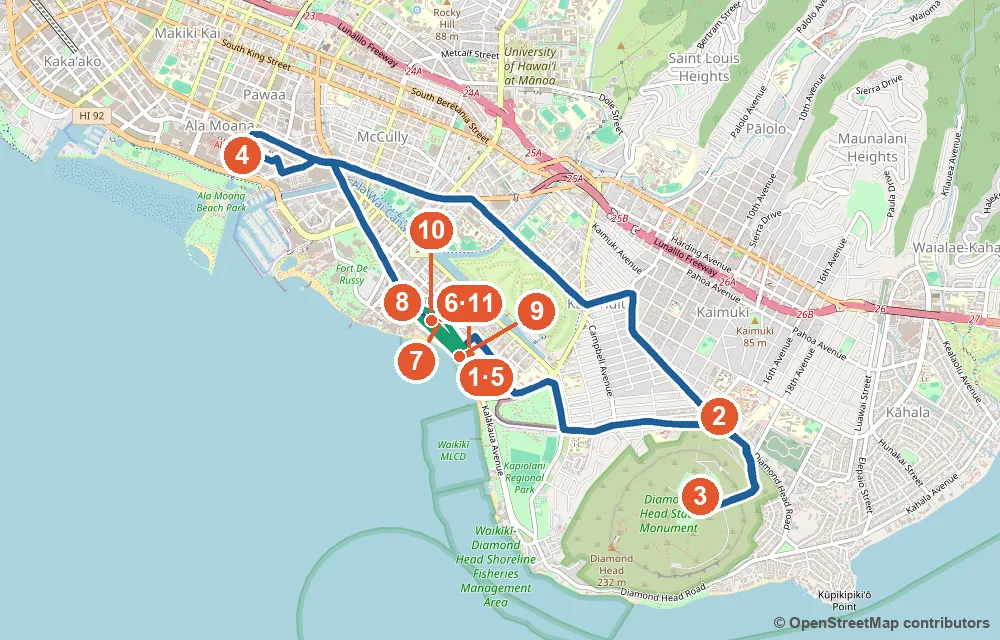
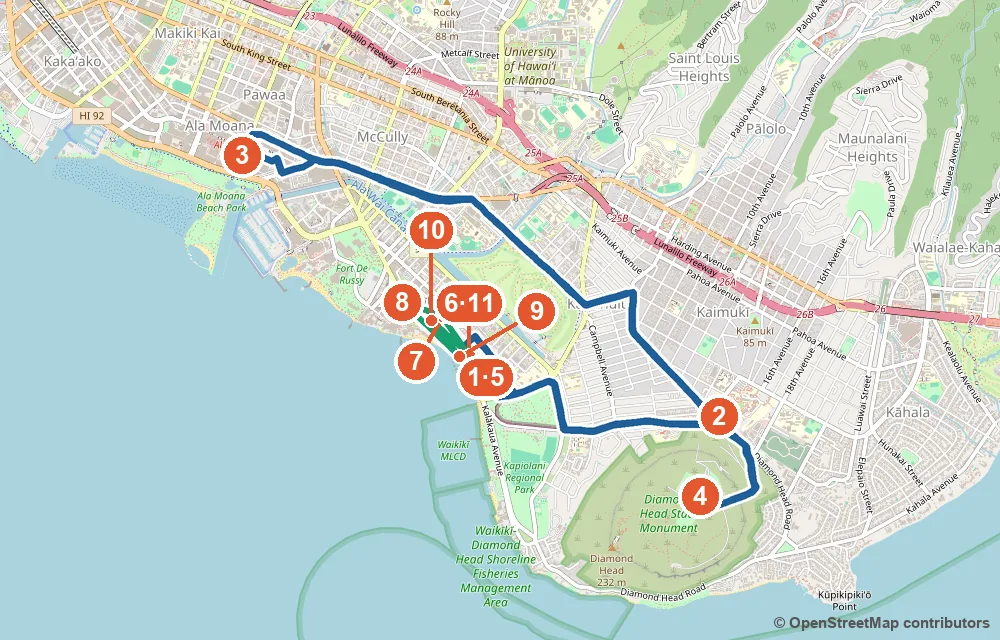
feat: 11/7 Diamond Head moved to 14:00 (brother busy AM), KCC+Ala Moana in the morning

diff --git a/index.html b/index.html
@@ -12,7 +12,7 @@
 // GitHub Pages 는 HTML 을 10분 캐시한다(헤더는 못 바꿈) → 열 때마다 version.json 을 캐시 없이 확인해
 // 새 버전이면 주소에 ?v=버전 을 붙여 한 번만 새로 불러온다 (같은 버전으로 이미 시도했으면 멈춤)
 (function () {
-  var BUILD = 'e12032f7f1';
+  var BUILD = 'fb1e3ab4a1';
   try {
     fetch('version.json?t=' + Date.now(), { cache: 'no-store' })
       .then(function (r) { return r.ok ? r.json() : null; })
@@ -336,7 +336,7 @@ footer { max-width: 1100px; margin: 0 auto; padding: 0 16px 48px; color: var(--m
 
 <div class="wx-summary">🌤 <b>날씨</b> 낮 27~30°C · 밤 21~24°C · 비 확률 대부분 15~30% (11/10만 65%, 짧은 소나기) · 동북동 무역풍 낮 평균 초속 5~8m · 돌풍 15~19m (모자 턱끈) · 일몰 17:52 — <span>미국 기상청 + Open-Meteo 수치모델 (11/3) · 날짜별 비 확률·기온·바람은 각 일정 맨 위에</span></div>
 <section class="sec alert"><div class="sec-head"><span class="sec-ic">🚨</span><h2 id="지금-예약확인할-것">지금 예약·확인할 것</h2></div>
-<div class="todo-grid"><div class="todo"><span class="when">예약 ❌ <strong>예약 취소 (11/3 · 작은형 일정)</strong></span><h4><strong>다이아몬드헤드</strong> 입장+주차</h4><div class="visit">📅 <span>가는 날</span> 11/7 (토) 10:00 슬롯이었음 · <strong>다시 갈지 정하는 중</strong></div><div class="where"><a href="https://gostateparks.hawaii.gov/diamondhead" target="_blank" rel="noopener">gostateparks.hawaii.gov/diamondhead</a></div><div class="memo">다시 잡으려면 $5×5 + 주차 $10 = $35 · 주차 슬롯 시작 30분 안에 도착</div></div><div class="todo"><span class="when">예약 <strong>11/4 15:00 HST</strong> (= 한국 11/5 10:00)</span><h4><strong>USS Arizona</strong> (진주만)</h4><div class="visit">📅 <span>가는 날</span> <strong>11/5 (목) 10:45–11:30 시작 슬롯</strong> · 5장 (더 늦으면 점심·아울렛도 늦춤)</div><div class="where"><a href="https://www.recreation.gov/ticket/233338/ticket/16" target="_blank" rel="noopener">recreation.gov — 「Arizona Memorial Tour」</a></div><div class="memo">8주 전 물량은 소진 → <strong>전날 15:00 추가 물량</strong> · 1장 $1 · <strong>14:50 로그인 담당 1명 지정</strong> · 오늘 미리 <strong>회원가입</strong> (무료, 이메일 인증) · 11/5 전날 물량은 10:45·11:15 슬롯에 각 75장 (11/3 확인) · 방문자센터 09:40 도착 기준</div></div><div class="todo"><span class="when">예약 지금</span><h4>저녁 예약 (5명)</h4><div class="visit">📅 <span>가는 날</span> ✅ <strong>11/4 (수) 17:30</strong> DECK. 예약 완료 (일몰 17:53) · <strong>11/6 (금) 17:00</strong> Buzz's · <strong>11/7 (토) 19:15</strong> 🍺 Maui Brewing 와이키키 (훌라 쇼 뒤)</div><div class="where">전화·OpenTable</div><div class="memo">Buzz's ☎ 808-261-4661 · 🍺 11/5 Yard House · 11/9 Waikiki Brewing은 <strong>예약 없이</strong> 바로 가요 (11/3 맥주집으로 변경)</div></div><div class="todo"><span class="when">예약 지금</span><h4>아침 예약 (5명)</h4><div class="visit">📅 <span>가는 날</span> <strong>11/8 (일) 08:00</strong> Duke's 조식 뷔페 · <strong>11/10 (화) 07:15</strong> Heavenly</div><div class="where">OpenTable · 전화</div><div class="memo">Duke's 조식 성인 $29 (07:00–11:00) · Heavenly는 아침 5인 예약 되는지 전화로 확인 (☎ 808-923-1100)</div></div><div class="todo"><span class="when">예약 지금</span><h4>PCC 패키지 (5명)</h4><div class="visit">📅 <span>가는 날</span> <strong>11/10 (화)</strong> 12:25 도착 · 루아우 16:40경 · 공연 19:15</div><div class="where"><a href="https://polynesia.com" target="_blank" rel="noopener">polynesia.com</a></div><div class="memo">일·수 휴무 · 운전 부담 크면 PCC 왕복 버스 $28/인</div></div></div>
+<div class="todo-grid"><div class="todo"><span class="when">예약 🔁 <strong>다시 예약 (오늘)</strong></span><h4><strong>다이아몬드헤드</strong> 입장+주차</h4><div class="visit">📅 <span>가는 날</span> <strong>11/7 (토) 14:00–16:00 주차 슬롯</strong> · 5명 입장 (10:00 예약은 취소 — 작은형 오전 개인 일정)</div><div class="where"><a href="https://gostateparks.hawaii.gov/diamondhead" target="_blank" rel="noopener">gostateparks.hawaii.gov/diamondhead</a></div><div class="memo"><strong>14:30까지 주차장 도착</strong> · $5×5 + 주차 $10 = $35 · 입장 QR 1회용 → 티켓을 내려받아 폰에 저장</div></div><div class="todo"><span class="when">예약 <strong>11/4 15:00 HST</strong> (= 한국 11/5 10:00)</span><h4><strong>USS Arizona</strong> (진주만)</h4><div class="visit">📅 <span>가는 날</span> <strong>11/5 (목) 10:45–11:30 시작 슬롯</strong> · 5장 (더 늦으면 점심·아울렛도 늦춤)</div><div class="where"><a href="https://www.recreation.gov/ticket/233338/ticket/16" target="_blank" rel="noopener">recreation.gov — 「Arizona Memorial Tour」</a></div><div class="memo">8주 전 물량은 소진 → <strong>전날 15:00 추가 물량</strong> · 1장 $1 · <strong>14:50 로그인 담당 1명 지정</strong> · 오늘 미리 <strong>회원가입</strong> (무료, 이메일 인증) · 11/5 전날 물량은 10:45·11:15 슬롯에 각 75장 (11/3 확인) · 방문자센터 09:40 도착 기준</div></div><div class="todo"><span class="when">예약 지금</span><h4>저녁 예약 (5명)</h4><div class="visit">📅 <span>가는 날</span> ✅ <strong>11/4 (수) 17:30</strong> DECK. 예약 완료 (일몰 17:53) · <strong>11/6 (금) 17:00</strong> Buzz's · <strong>11/7 (토) 19:15</strong> 🍺 Maui Brewing 와이키키 (훌라 쇼 뒤)</div><div class="where">전화·OpenTable</div><div class="memo">Buzz's ☎ 808-261-4661 · 🍺 11/5 Yard House · 11/9 Waikiki Brewing은 <strong>예약 없이</strong> 바로 가요 (11/3 맥주집으로 변경)</div></div><div class="todo"><span class="when">예약 지금</span><h4>아침 예약 (5명)</h4><div class="visit">📅 <span>가는 날</span> <strong>11/8 (일) 08:00</strong> Duke's 조식 뷔페 · <strong>11/10 (화) 07:15</strong> Heavenly</div><div class="where">OpenTable · 전화</div><div class="memo">Duke's 조식 성인 $29 (07:00–11:00) · Heavenly는 아침 5인 예약 되는지 전화로 확인 (☎ 808-923-1100)</div></div><div class="todo"><span class="when">예약 지금</span><h4>PCC 패키지 (5명)</h4><div class="visit">📅 <span>가는 날</span> <strong>11/10 (화)</strong> 12:25 도착 · 루아우 16:40경 · 공연 19:15</div><div class="where"><a href="https://polynesia.com" target="_blank" rel="noopener">polynesia.com</a></div><div class="memo">일·수 휴무 · 운전 부담 크면 PCC 왕복 버스 $28/인</div></div></div>
 
 </section><section class="sec flight"><div class="sec-head"><span class="sec-ic">✈</span><h2 id="항공-서울팀-3명-현지-시각">항공</h2><small>서울팀 3명 (현지 시각)</small></div>
 <div class="tickets"><div class="ticket"><div class="tk-top"><span>가는 편</span><b>KE053</b></div><div class="route"><div class="city"><small>11/4 (수)</small><b>20:50</b><span>ICN · 인천 T2</span></div><div class="plane">✈</div><div class="city r"><small>11/4 (수)</small><b>09:40</b><span>HNL · 호놀룰루</span></div></div><div class="tk-meta"><div><span>공항 도착 목표</span><b>17:50</b></div><div><span>체크인 마감</span><b>19:50</b></div><div><span>탑승 시작</span><b>20:15</b></div></div></div><div class="ticket"><div class="tk-top"><span>오는 편</span><b>KE054</b></div><div class="route"><div class="city"><small>11/11 (수)</small><b>12:05</b><span>HNL · 호놀룰루</span></div><div class="plane">✈</div><div class="city r"><small>11/12 (목)</small><b>17:35</b><span>ICN · 인천 T2</span></div></div><div class="tk-meta"><div><span>공항 도착 목표</span><b>08:20</b></div><div><span>체크인 마감</span><b>출발 1시간 전</b></div><div><span>탑승 시작</span><b>11:30</b></div></div></div></div>
@@ -350,7 +350,7 @@ footer { max-width: 1100px; margin: 0 auto; padding: 0 16px 48px; color: var(--m
 </section><section class="sec hotel"><div class="sec-head"><span class="sec-ic">🏨</span><h2 id="숙소-메리어트-3박-비치타워-콘도-4박-걸어서-3분">숙소</h2><small>메리어트 3박 · 비치타워 콘도 4박 (걸어서 3분)</small></div>
 <div class="tickets"><div class="hotel"><div class="tk-top"><span>11/4 (수) – 11/7 (토) · 3박 · 아고다</span></div><div class="ht-name">와이키키 비치 메리어트 리조트 &amp; 스파</div><div class="ht-times"><div><span>체크인</span><b>15:00</b><small>11/4 (수)</small></div><div><span>체크아웃</span><b>11:00</b><small>11/7 (토)</small></div></div><dl class="ht-facts"><dt>☎ 전화</dt><dd><ul class="ht-fac"><li>한국에서 <strong>001-1-808-922-6611</strong> (KT 001 · LG U+ 002 · SK 00700)</li><li>휴대폰은 <strong><a href="tel:+18089226611">+1 808 922 6611</a></strong> (누르면 바로 걸려요)</li><li>프런트 24시간 · 하와이는 한국보다 19시간 늦어요</li></ul></dd><dt>🛏 방</dt><dd><strong>객실 2개 예약 확정</strong> — 방 1: 시티뷰 퀸 1 또는 더블 2 (성인 2) · 방 2: 와이키키 시티뷰 킹 1 + 소파베드, 발코니 (성인 3) — <strong>침대는 킹 1 + 소파베드뿐</strong> (추가 침대·침대 2개 방 변경 안 됨, 11/3 확인)</dd><dt>🚿 욕실</dt><dd>객실마다 1개</dd><dt>🍳 조식</dt><dd><strong>방마다 성인 2명 포함</strong> (전화 확인 11/3) — 2번 방 세 번째 사람은 <strong>추가 요금</strong> · 2층 Kuhio Beach Grill 뷔페 (05:00–11:00)</dd><dt>🅿 주차</dt><dd><strong>호텔 셀프 주차</strong> $65/일 · 발렛 $80/일 (세금 별도 · 셀프 3박 약 $204) — 근처 반얀 주차장은 24시간 $50 (공사 중 요금 · 높이 183cm 제한)이라 하루 $15 정도 차이 · ⚠ 후기: 셀프 주차장이 좁고 자주 꽉 차서 발렛으로 돌린 일, SUV가 높아 못 들어가 발렛 쓴 일 있음 (2024~2026) · <strong>미리 예약 필요 없음</strong> (11/3 호텔 확인)</dd><dt>🏝 시설</dt><dd><ul class="ht-fac"><li>🏊 <strong>수영장 2개</strong> — 옥상 Queensbreak에 가족 풀 + 21세 이상 성인 풀, 온수 욕조 (07:00–22:00)</li><li>🍽 <strong>식당·바·카페 7곳</strong> — Kuhio Beach Grill (조식 뷔페 05–11, 2층) · Arancino di Mare (이탈리안 저녁 17–21) · Queensbreak 레스토랑·풀사이드 바 (옥상 11–23) · 스타벅스 2곳 · Island Vintage 셰이브아이스 — Sansei·DK Steakhouse는 2025.9 폐업</li><li>🛒 <strong>ABC 스토어</strong> (로비층 편의점)</li><li>🧺 <strong>셀프 세탁실</strong> (Paoakalani 타워 2층) — 세탁·건조 각 $6.50 (2026.5 투숙 후기), 카드 결제 · 드라이클리닝 서비스 별도</li><li>💆 Royal Kaila 스파 (09–18) · 피트니스 24시간</li><li>🌺 우쿨렐레·훌라·레이 만들기 수업 (리조트피 포함)</li><li>🎭 Paina Waikiki 루아우 디너쇼 (월·수·금·토·일, 별도 예약)</li><li>🗣 일본어 직원 있음 · 한국어 직원 없음 (11/3 전화 확인)</li></ul></dd></dl><ul class="ht-notes"><li>11/4 체크인 전·11/7 체크아웃 뒤 <strong>벨데스크 짐 보관</strong></li><li>리조트피 객실당 1박 $59 + 세금 (약 $70, 현장 결제 — Wi-Fi·비치체어 또는 부기보드·문화 수업 포함)</li><li>체크인은 예약자 본인 여권 + 실물 카드</li></ul></div><div class="hotel"><div class="tk-top"><span>11/7 (토) – 11/11 (수) · 4박</span></div><div class="ht-name">와이키키 비치 타워 콘도 (에어비앤비)</div><div class="ht-times"><div><span>체크인</span><b>15:00</b><small>11/7 (토)</small></div><div><span>체크아웃</span><b>11:00</b><small>11/11 (수)</small></div></div><dl class="ht-facts"><dt>☎ 전화</dt><dd><ul class="ht-fac"><li>관리 회사(캡틴 쿡 리조트)는 <strong>에어비앤비 앱 메시지</strong></li><li>관리자 전화번호는 11/5 15:00(하와이)부터 앱의 입실 안내에 나와요</li></ul></dd><dt>🛏 방</dt><dd><strong>침실 2개</strong> — 안방 킹 1 · 게스트룸 트윈 2 (요청 시 킹 1) · 거실 퀸 소파베드 · 최대 6명 · 실내 약 107㎡ + 오션뷰 발코니</dd><dt>🚿 욕실</dt><dd><strong>2개</strong> (안방 전용 1 + 공용 1)</dd><dt>🍳 조식</dt><dd>없음 — 주방 완비, 아침은 장봐서</dd><dt>🅿 주차</dt><dd><strong>발렛 1대 무료</strong> (차 높이 188cm까지, 셔틀 크기 밴 불가) · 차량 사전 등록 필요 없음 · 머무는 동안만 · 리조트피 없음</dd><dt>🏝 시설</dt><dd><ul class="ht-fac"><li>🧺 집 안 <strong>세탁기·건조기</strong> (무료)</li><li>🏊 건물 수영장·스파·피트니스</li><li>🍳 주방 완비</li></ul></dd></dl><ul class="ht-notes"><li>체크인·체크아웃 시각은 <strong>에어비앤비 예약·호스트 안내 기준</strong></li><li>도착 후 <strong>관리자에게 전화</strong>해서 체크인</li><li>매일 청소·수건 보충 없음</li><li>커피·조미료·식용유·지퍼백 없음</li></ul></div></div>
 </section><section class="sec overview"><div class="sec-head"><span class="sec-ic">🗓</span><h2 id="1-한눈에-보기">한눈에 보기</h2></div>
-<div class="ov-grid"><a class="ov c0" href="#114-수-도착-짐부터-호텔에-가볍게"><div class="ov-head"><b>11/4</b><em>수</em><span>도착</span></div><ul><li><i>🛍</i>월마트 / 돈키호테 (장보기)</li><li><i>🍳</i>기내</li><li><i>🍱</i>Highway Inn 카카아코</li><li><i>🍽</i>🌅 DECK. 일몰 (17:30)</li></ul></a><a class="ov c1" href="#115-목-진주만-와이켈레-아울렛"><div class="ov-head"><b>11/5</b><em>목</em><span>진주만</span></div><ul><li><i>🛍</i><strong>와이켈레 아울렛</strong></li><li><i>🍳</i>메리어트 조식</li><li><i>🍱</i>Restaurant 604</li><li><i>🍽</i>🍺 Yard House</li></ul></a><a class="ov c2" href="#116-금-동부-해안-카일루아-해안-먼저-저녁은-카일루아"><div class="ov-head"><b>11/6</b><em>금</em><span>동부 해안</span></div><ul><li><i>🥾</i><strong>마카푸우 등대</strong> · (선택, 아들) 라니카이 필박스</li><li><i>🛍</i><strong>카일루아</strong> 마노아 초콜릿·Whole Foods·타운</li><li><i>🍳</i>메리어트 조식</li><li><i>🍱</i>Kalapawai Café</li><li><i>🍽</i><strong>Buzz's</strong> (예약)</li></ul></a><a class="ov c3" href="#117-토-kcc-파머스마켓-다이아몬드헤드-알라모아나-숙소-이동"><div class="ov-head"><b>11/7</b><em>토</em><span>이동일</span></div><ul><li><i>🥾</i><del>다이아몬드헤드</del> (예약 취소 · 정하는 중)</li><li><i>🛍</i><strong>KCC 파머스마켓 · 알라모아나</strong> · 저녁 전 IMP·로열 하와이안 (걸어서)</li><li><i>🍳</i>메리어트 조식</li><li><i>🍱</i>릴리하 베이커리 (알라모아나)</li><li><i>🍽</i>🌺 훌라 쇼 → 🍺 <strong>Maui Brewing</strong></li></ul></a><a class="ov c4" href="#118-일-노스쇼어-종일"><div class="ov-head"><b>11/8</b><em>일</em><span>노스쇼어</span></div><ul><li><i>🥾</i><strong>와이메아 밸리 폭포</strong> · 헤이아우 전망</li><li><i>🛍</i><strong>할레이바 타운</strong> · 돌 플랜테이션</li><li><i>🍳</i>Duke's 조식 뷔페</li><li><i>🍱</i>Giovanni's</li><li><i>🍽</i>Haleiwa Joe's (노을)</li></ul></a><a class="ov c5" href="#119-월-서쪽-해안-93번-드라이브-쇼핑-와이키키-마지막-여유일"><div class="ov-head"><b>11/9</b><em>월</em><span>서쪽 해안·쇼핑</span></div><ul><li><i>🥾</i><strong>93번 서쪽 해안 드라이브</strong> (코올리나 라군·마카하·요코하마 베이)</li><li><i>🛍</i><strong>워드 빌리지 · 돈키호테·월마트</strong></li><li><i>🍳</i>Café Kaila / Hau Tree</li><li><i>🍱</i>Monkeypod Kitchen (코올리나)</li><li><i>🍽</i>🍺 <strong>Waikiki Brewing</strong></li></ul></a><a class="ov c6" href="#1110-화-뵤도인-폴리네시안-문화센터-pcc"><div class="ov-head"><b>11/10</b><em>화</em><span>PCC</span></div><ul><li><i>🥾</i><strong>팔리 전망대 · 뵤도인 사원</strong> (또는 호오말루히아)</li><li><i>🛍</i>후킬라우 마켓플레이스</li><li><i>🍳</i>Heavenly (07:00~)</li><li><i>🍱</i>Seven Brothers / Giovanni's 카후쿠</li><li><i>🍽</i>PCC 루아우</li></ul></a><a class="ov c7" href="#1111-수-출발-veterans-day-공휴일"><div class="ov-head"><b>11/11</b><em>수</em><span>출발</span></div><ul><li><i>🍳</i>Eggs 'n Things 포장 (06:00)</li><li><i>🍱</i>기내</li></ul></a></div>
+<div class="ov-grid"><a class="ov c0" href="#114-수-도착-짐부터-호텔에-가볍게"><div class="ov-head"><b>11/4</b><em>수</em><span>도착</span></div><ul><li><i>🛍</i>월마트 / 돈키호테 (장보기)</li><li><i>🍳</i>기내</li><li><i>🍱</i>Highway Inn 카카아코</li><li><i>🍽</i>🌅 DECK. 일몰 (17:30)</li></ul></a><a class="ov c1" href="#115-목-진주만-와이켈레-아울렛"><div class="ov-head"><b>11/5</b><em>목</em><span>진주만</span></div><ul><li><i>🛍</i><strong>와이켈레 아울렛</strong></li><li><i>🍳</i>메리어트 조식</li><li><i>🍱</i>Restaurant 604</li><li><i>🍽</i>🍺 Yard House</li></ul></a><a class="ov c2" href="#116-금-동부-해안-카일루아-해안-먼저-저녁은-카일루아"><div class="ov-head"><b>11/6</b><em>금</em><span>동부 해안</span></div><ul><li><i>🥾</i><strong>마카푸우 등대</strong> · (선택, 아들) 라니카이 필박스</li><li><i>🛍</i><strong>카일루아</strong> 마노아 초콜릿·Whole Foods·타운</li><li><i>🍳</i>메리어트 조식</li><li><i>🍱</i>Kalapawai Café</li><li><i>🍽</i><strong>Buzz's</strong> (예약)</li></ul></a><a class="ov c3" href="#117-토-kcc-파머스마켓-다이아몬드헤드-알라모아나-숙소-이동"><div class="ov-head"><b>11/7</b><em>토</em><span>이동일</span></div><ul><li><i>🥾</i><strong>다이아몬드헤드</strong> (오후 14시 · 다시 예약)</li><li><i>🛍</i><strong>KCC 파머스마켓 · 알라모아나</strong> · 저녁 전 IMP·로열 하와이안 (걸어서)</li><li><i>🍳</i>메리어트 조식</li><li><i>🍱</i>릴리하 베이커리 (알라모아나)</li><li><i>🍽</i>🌺 훌라 쇼 → 🍺 <strong>Maui Brewing</strong></li></ul></a><a class="ov c4" href="#118-일-노스쇼어-종일"><div class="ov-head"><b>11/8</b><em>일</em><span>노스쇼어</span></div><ul><li><i>🥾</i><strong>와이메아 밸리 폭포</strong> · 헤이아우 전망</li><li><i>🛍</i><strong>할레이바 타운</strong> · 돌 플랜테이션</li><li><i>🍳</i>Duke's 조식 뷔페</li><li><i>🍱</i>Giovanni's</li><li><i>🍽</i>Haleiwa Joe's (노을)</li></ul></a><a class="ov c5" href="#119-월-서쪽-해안-93번-드라이브-쇼핑-와이키키-마지막-여유일"><div class="ov-head"><b>11/9</b><em>월</em><span>서쪽 해안·쇼핑</span></div><ul><li><i>🥾</i><strong>93번 서쪽 해안 드라이브</strong> (코올리나 라군·마카하·요코하마 베이)</li><li><i>🛍</i><strong>워드 빌리지 · 돈키호테·월마트</strong></li><li><i>🍳</i>Café Kaila / Hau Tree</li><li><i>🍱</i>Monkeypod Kitchen (코올리나)</li><li><i>🍽</i>🍺 <strong>Waikiki Brewing</strong></li></ul></a><a class="ov c6" href="#1110-화-뵤도인-폴리네시안-문화센터-pcc"><div class="ov-head"><b>11/10</b><em>화</em><span>PCC</span></div><ul><li><i>🥾</i><strong>팔리 전망대 · 뵤도인 사원</strong> (또는 호오말루히아)</li><li><i>🛍</i>후킬라우 마켓플레이스</li><li><i>🍳</i>Heavenly (07:00~)</li><li><i>🍱</i>Seven Brothers / Giovanni's 카후쿠</li><li><i>🍽</i>PCC 루아우</li></ul></a><a class="ov c7" href="#1111-수-출발-veterans-day-공휴일"><div class="ov-head"><b>11/11</b><em>수</em><span>출발</span></div><ul><li><i>🍳</i>Eggs 'n Things 포장 (06:00)</li><li><i>🍱</i>기내</li></ul></a></div>
 
 </section><section class="sec days"><div class="sec-head"><span class="sec-ic">📍</span><h2 id="2-날짜별-상세-시간-장소-주차">날짜별 상세</h2><small>시간 · 장소 · 주차</small></div>
 <blockquote>
@@ -400,11 +400,12 @@ footer { max-width: 1100px; margin: 0 auto; padding: 0 16px 48px; color: var(--m
 </ul>
 </div></article><article class="day c3" data-date="11/7"><div class="day-head"><div class="date-badge"><b>11/7</b><span>토요일</span></div><div class="day-title"><h3 id="117-토-kcc-파머스마켓-다이아몬드헤드-알라모아나-숙소-이동">KCC 파머스마켓 → 다이아몬드헤드 → 알라모아나 → 숙소 이동</h3></div></div><div class="day-body">
 <p class="wx">🌤 다이아몬드헤드 ☔ 19% · 🌡 24~29°C · 💨 평균 초속 6m · 돌풍 18m (북동) — 오전 한때 소나기 뒤 갬 · 그늘 없음 → 물·모자 필수</p>
-<figure class="routemap"><img src="maps/1107.webp?v=b38ca876bd" loading="lazy" width="1000" height="640" alt="11/7 지도"><figcaption><div class="rm-stops"><b>①</b> 메리어트 → <b>②</b> KCC 파머스마켓 → <b>③</b> 다이아몬드헤드 → <b>④</b> 알라모아나 센터 → <b>⑤</b> 메리어트 → <b>⑥</b> 비치타워 콘도 → <b>⑦</b> 인터내셔널 마켓 플레이스 → <b>⑧</b> 로열 하와이안 센터 → <b>⑨</b> 쿠히오 비치 훌라 쇼 → <b>⑩</b> Maui Brewing → <b>⑪</b> 비치타워 콘도</div><div class="rm-meta">🚗 하루 운전 약 16km · 막히지 않으면 약 39분 · 파란 선 = 차 · 초록 선 = 걷기</div><div class="rm-links">🧭 구글 지도 길찾기 <a href="https://www.google.com/maps/dir/?api=1&amp;origin=Waikiki+Beach+Marriott+Resort+%26+Spa+2552+Kalakaua+Ave&amp;destination=Waikiki+Beach+Marriott+Resort+%26+Spa+2552+Kalakaua+Ave&amp;travelmode=driving&amp;waypoints=KCC+Farmers+Market+4303+Diamond+Head+Rd%7CDiamond+Head+State+Monument+parking%7CAla+Moana+Center" target="_blank" rel="noopener">①→⑤</a><a href="https://www.google.com/maps/dir/?api=1&amp;origin=Waikiki+Beach+Marriott+Resort+%26+Spa+2552+Kalakaua+Ave&amp;destination=Waikiki+Beach+Tower+2470+Kalakaua+Ave+Honolulu&amp;travelmode=driving" target="_blank" rel="noopener">⑤→⑥</a><a href="https://www.google.com/maps/dir/?api=1&amp;origin=Waikiki+Beach+Tower+2470+Kalakaua+Ave+Honolulu&amp;destination=Maui+Brewing+Co+Waikiki+2300+Kalakaua+Ave+Honolulu&amp;travelmode=walking&amp;waypoints=International+Market+Place+Waikiki%7CRoyal+Hawaiian+Center%7CKuhio+Beach+Hula+Mound+Honolulu" target="_blank" rel="noopener">🚶 ⑥→⑩</a><a href="https://www.google.com/maps/dir/?api=1&amp;origin=Maui+Brewing+Co+Waikiki+2300+Kalakaua+Ave+Honolulu&amp;destination=Waikiki+Beach+Tower+2470+Kalakaua+Ave+Honolulu&amp;travelmode=walking" target="_blank" rel="noopener">🚶 ⑩→⑪</a></div></figcaption><details class="rm-zoom"><summary>🔍 확대 지도 — 와이키키 걷기 (⑤~⑪)</summary><img src="maps/1107-zoom.webp?v=b38ca876bd" loading="lazy" width="1000" height="640" alt="11/7 와이키키 걷기 확대 지도"></details></figure><div class="gallery"><figure><a href="https://commons.wikimedia.org/wiki/File:Diamond_Head_Hawaii_From_Round_Top_Rd.JPG" target="_blank" rel="noopener"><img src="https://thumb.wikimedia.org/wikipedia/commons/thumb/9/93/Diamond_Head_Hawaii_From_Round_Top_Rd.JPG/960px-Diamond_Head_Hawaii_From_Round_Top_Rd.JPG?utm_source=commons.wikimedia.org&utm_campaign=imageinfo&utm_content=thumbnail" alt="다이아몬드헤드" loading="lazy" decoding="async"></a><figcaption><b>다이아몬드헤드</b><small>© mar1865 · CC BY-SA 3.0</small></figcaption></figure><figure><a href="https://commons.wikimedia.org/wiki/File:Ala_Moana_Centerstage_at_the_Ala_Mona_Center.jpg" target="_blank" rel="noopener"><img src="https://thumb.wikimedia.org/wikipedia/commons/thumb/6/6c/Ala_Moana_Centerstage_at_the_Ala_Mona_Center.jpg/960px-Ala_Moana_Centerstage_at_the_Ala_Mona_Center.jpg?utm_source=commons.wikimedia.org&utm_campaign=imageinfo&utm_content=thumbnail" alt="알라모아나 센터" loading="lazy" decoding="async"></a><figcaption><b>알라모아나 센터</b><small>© Richard N Horne · CC BY-SA 4.0</small></figcaption></figure><figure><a href="https://commons.wikimedia.org/wiki/File:Halekulani_Hotel.jpg" target="_blank" rel="noopener"><img src="https://thumb.wikimedia.org/wikipedia/commons/thumb/e/e6/Halekulani_Hotel.jpg/960px-Halekulani_Hotel.jpg?utm_source=commons.wikimedia.org&utm_campaign=imageinfo&utm_content=thumbnail" alt="할레쿨라니 (House Without a Key)" loading="lazy" decoding="async"></a><figcaption><b>할레쿨라니 (House Without a Key)</b><small>© TastyPoutine · CC BY-SA 3.0</small></figcaption></figure></div><ol class="tl"><li><div class="t">08:00–08:40</div><div class="c"><div class="place">메리어트 Kuhio Beach Grill</div><div class="what">조식 (포함)</div></div></li><li><div class="t">08:40–09:00</div><div class="c"><div class="place">🧳 <strong>메리어트 체크아웃</strong> (11:00 마감 전에 미리)</div><div class="what">짐은 <strong>벨데스크에 15시까지 보관</strong> — 차에 두지 않기 · 작은형은 호텔 주차장에서 차 빼기</div></div></li><li><div class="t">09:10–10:00</div><div class="c"><div class="place">🛍 <strong>KCC 파머스마켓</strong> (토 07:30–11:00, 10분)</div><div class="what">구운 전복, 그린토마토 튀김, 열대과일 · 인기 품목 일찍 품절</div><div class="park">🅿 <strong>무료</strong> (Lot C·E)</div></div></li><li><div class="t">10:00–12:00</div><div class="c"><div class="place">🥾 <strong>다이아몬드헤드</strong> (KCC에서 5분) · ❌ <strong>예약 취소 (작은형 일정) — 이 시간 어떻게 쓸지 정하는 중</strong></div><div class="what">(다시 잡으면) 슬롯 시작 30분 안에 도착 · 입장 후 바로 등산 · 왕복 2.6km · +170m · 마지막 계단 · 한낮이라 <strong>물·모자 필수</strong> · <strong>11:35~11:40 차량 복귀 목표</strong> — 늦으면 정상보다 시간 우선</div><div class="park">🅿 <strong>예약 주차 2시간 → 12:00까지 출차</strong> · 슬롯 시작 30분 안에 도착 (늦으면 환불 불가)</div><figure class="routemap"><img src="maps/hike-diamondhead.webp?v=4c3b9f01a6" loading="lazy" width="1000" height="640" alt="하이킹: 다이아몬드헤드 지도"><figcaption><div class="rm-stops"><b>🥾 다이아몬드헤드 코스</b> · <b>①</b> 주차장·입구 → <b>②</b> 정상 전망대</div><div class="rm-meta">왕복 2.6km · +171m · 마지막 계단·터널 · 초록 선 = 걷는 길 (대략)</div><div class="rm-links">🧭 구글 지도 <a href="https://www.google.com/maps/search/?api=1&amp;query=21.26354,-157.80603" target="_blank" rel="noopener">📍 입구</a></div></figcaption></figure></div></li><li><div class="t">12:30–14:15</div><div class="c"><div class="place">🛍 <strong>알라모아나 센터</strong> (10–20)</div><div class="what">점심: <strong>Liliha Bakery</strong> (Macy's 3층, 코코퍼프 · 🍴 <strong>로코모코는 여기서</strong>) 또는 Makai Market 푸드코트 · 쇼핑: Target(2층) · <strong>마지막 30분 Foodland Farms (몰 안)에서 콘도 아침거리 장보기</strong> — 콘도에 커피·조미료·식용유·지퍼백 없음</div><div class="park">🅿 <strong>쇼핑객 무료</strong> — 몰 밖 용무로 세우면 견인</div></div></li><li><div class="t">14:30–15:00</div><div class="c"><div class="place">🧳 <strong>숙소 이동</strong> — 메리어트 벨데스크에서 짐 찾기 → 렌트카에 싣고 비치타워로 → <strong>15:00 체크인</strong></div><div class="what">도착하면 <strong>관리자에게 전화</strong> → 만나서 체크인 또는 셀프 체크인 안내 (관리자 연락처는 11/4 자동 발송 · 전화는 한국 번호 로밍 또는 작은형 폰) · 휴식</div><div class="park">🅿 <strong>발렛 1대 무료</strong> (높이 6'2" = 188cm · 차량 사전 등록 필요 없음 · 머무는 동안만 — 호스트 확인 11/3) · 차는 칼라카우아 → <strong>릴리우오칼라니 애비뉴</strong> 좌회전, 왼쪽 건물</div></div></li><li><div class="t">16:30–17:20</div><div class="c"><div class="place">🛍 <strong>인터내셔널 마켓 플레이스 → 로열 하와이안 센터</strong> (토 10–21, 걸어서)</div><div class="what">콘도에서 칼라카우아 길을 따라 저녁 식당 가는 길 — 쇼핑 리뷰 순위 2·3위 (10,175 · 12,716) · 인터내셔널 마켓 플레이스 가운데 큰 반얀트리</div><div class="park">🅿 도보 (차는 콘도 발렛에 두기)</div></div></li><li><div class="t">17:30–17:55</div><div class="c"><div class="place">🌅 <strong>쿠히오 비치</strong> 일몰 (17:51)</div><div class="what">로열 하와이안 센터에서 해변 따라 걸어서 10분</div><div class="park">🅿 도보</div></div></li><li><div class="t">18:00–19:00</div><div class="c"><div class="place">🌺 <strong>쿠히오 비치 무료 훌라 쇼</strong> (화·목·토 · 11~1월 18:00)</div><div class="what">듀크 동상 옆 훌라 마운드 · 무료, 예약 없음 · 앉을 수건 있으면 좋아요 · 열리는지 현장 확인 (☎ 808-843-8002)</div><div class="park">🅿 도보</div></div></li><li><div class="t">19:15–20:45</div><div class="c"><div class="place">🍺 <strong>Maui Brewing Co. 와이키키</strong> (아웃리거 비치콤버, 2300 Kalakaua · 11:00–23:00)</div><div class="what">저녁 — 직접 만든 하와이 맥주 · 라이브 음악 · 🍴 <strong>주문: 피자·피시 타코</strong> (버거는 피하기) · <strong>OpenTable 예약</strong> · 대안: House Without a Key (할레쿨라니, 매일 밤 훌라)</div><div class="park">🅿 훌라 쇼 장소에서 걸어서 5분 · 콘도까지 걸어서 7분</div></div></li></ol>
+<figure class="routemap"><img src="maps/1107.webp?v=64e06a45f9" loading="lazy" width="1000" height="640" alt="11/7 지도"><figcaption><div class="rm-stops"><b>①</b> 메리어트 → <b>②</b> KCC 파머스마켓 → <b>③</b> 알라모아나 센터 → <b>④</b> 다이아몬드헤드 → <b>⑤</b> 메리어트 → <b>⑥</b> 비치타워 콘도 → <b>⑦</b> 인터내셔널 마켓 플레이스 → <b>⑧</b> 로열 하와이안 센터 → <b>⑨</b> 쿠히오 비치 훌라 쇼 → <b>⑩</b> Maui Brewing → <b>⑪</b> 비치타워 콘도</div><div class="rm-meta">🚗 하루 운전 약 21km · 막히지 않으면 약 46분 · 파란 선 = 차 · 초록 선 = 걷기</div><div class="rm-links">🧭 구글 지도 길찾기 <a href="https://www.google.com/maps/dir/?api=1&amp;origin=Waikiki+Beach+Marriott+Resort+%26+Spa+2552+Kalakaua+Ave&amp;destination=Waikiki+Beach+Marriott+Resort+%26+Spa+2552+Kalakaua+Ave&amp;travelmode=driving&amp;waypoints=KCC+Farmers+Market+4303+Diamond+Head+Rd%7CAla+Moana+Center%7CDiamond+Head+State+Monument+parking" target="_blank" rel="noopener">①→⑤</a><a href="https://www.google.com/maps/dir/?api=1&amp;origin=Waikiki+Beach+Marriott+Resort+%26+Spa+2552+Kalakaua+Ave&amp;destination=Waikiki+Beach+Tower+2470+Kalakaua+Ave+Honolulu&amp;travelmode=driving" target="_blank" rel="noopener">⑤→⑥</a><a href="https://www.google.com/maps/dir/?api=1&amp;origin=Waikiki+Beach+Tower+2470+Kalakaua+Ave+Honolulu&amp;destination=Maui+Brewing+Co+Waikiki+2300+Kalakaua+Ave+Honolulu&amp;travelmode=walking&amp;waypoints=International+Market+Place+Waikiki%7CRoyal+Hawaiian+Center%7CKuhio+Beach+Hula+Mound+Honolulu" target="_blank" rel="noopener">🚶 ⑥→⑩</a><a href="https://www.google.com/maps/dir/?api=1&amp;origin=Maui+Brewing+Co+Waikiki+2300+Kalakaua+Ave+Honolulu&amp;destination=Waikiki+Beach+Tower+2470+Kalakaua+Ave+Honolulu&amp;travelmode=walking" target="_blank" rel="noopener">🚶 ⑩→⑪</a></div></figcaption><details class="rm-zoom"><summary>🔍 확대 지도 — 와이키키 걷기 (⑤~⑪)</summary><img src="maps/1107-zoom.webp?v=64e06a45f9" loading="lazy" width="1000" height="640" alt="11/7 와이키키 걷기 확대 지도"></details></figure><div class="gallery"><figure><a href="https://commons.wikimedia.org/wiki/File:Diamond_Head_Hawaii_From_Round_Top_Rd.JPG" target="_blank" rel="noopener"><img src="https://thumb.wikimedia.org/wikipedia/commons/thumb/9/93/Diamond_Head_Hawaii_From_Round_Top_Rd.JPG/960px-Diamond_Head_Hawaii_From_Round_Top_Rd.JPG?utm_source=commons.wikimedia.org&utm_campaign=imageinfo&utm_content=thumbnail" alt="다이아몬드헤드" loading="lazy" decoding="async"></a><figcaption><b>다이아몬드헤드</b><small>© mar1865 · CC BY-SA 3.0</small></figcaption></figure><figure><a href="https://commons.wikimedia.org/wiki/File:Ala_Moana_Centerstage_at_the_Ala_Mona_Center.jpg" target="_blank" rel="noopener"><img src="https://thumb.wikimedia.org/wikipedia/commons/thumb/6/6c/Ala_Moana_Centerstage_at_the_Ala_Mona_Center.jpg/960px-Ala_Moana_Centerstage_at_the_Ala_Mona_Center.jpg?utm_source=commons.wikimedia.org&utm_campaign=imageinfo&utm_content=thumbnail" alt="알라모아나 센터" loading="lazy" decoding="async"></a><figcaption><b>알라모아나 센터</b><small>© Richard N Horne · CC BY-SA 4.0</small></figcaption></figure><figure><a href="https://commons.wikimedia.org/wiki/File:Halekulani_Hotel.jpg" target="_blank" rel="noopener"><img src="https://thumb.wikimedia.org/wikipedia/commons/thumb/e/e6/Halekulani_Hotel.jpg/960px-Halekulani_Hotel.jpg?utm_source=commons.wikimedia.org&utm_campaign=imageinfo&utm_content=thumbnail" alt="할레쿨라니 (House Without a Key)" loading="lazy" decoding="async"></a><figcaption><b>할레쿨라니 (House Without a Key)</b><small>© TastyPoutine · CC BY-SA 3.0</small></figcaption></figure></div><ol class="tl"><li><div class="t">08:00–08:40</div><div class="c"><div class="place">메리어트 Kuhio Beach Grill</div><div class="what">조식 (포함)</div></div></li><li><div class="t">08:40–09:00</div><div class="c"><div class="place">🧳 <strong>메리어트 체크아웃</strong> (11:00 마감 전에 미리)</div><div class="what">짐은 <strong>벨데스크에 16시쯤까지 보관</strong> — 차에 두지 않기 · <strong>작은형은 오전 개인 일정</strong> (차를 쓰면 우리는 우버 XL·택시)</div></div></li><li><div class="t">09:00–10:15</div><div class="c"><div class="place">🛍 <strong>KCC 파머스마켓</strong> (토 07:30–11:00 · 택시 10분)</div><div class="what">구운 전복, 그린토마토 튀김, 열대과일 · 인기 품목 일찍 품절 · 작은형이 KCC까지 태워 주면 택시 한 번 줄어요</div><div class="park">🅿 택시 내리는 곳 (차면 Lot C·E 무료)</div></div></li><li><div class="t">10:15–13:15</div><div class="c"><div class="place">🛍 <strong>알라모아나 센터</strong> (10–20 · KCC에서 택시 15분)</div><div class="what">점심: <strong>Liliha Bakery</strong> (Macy's 3층, 코코퍼프 · 🍴 <strong>로코모코는 여기서</strong>) 또는 Makai Market 푸드코트 · 쇼핑: Target(2층) · <strong>마지막 30분 Foodland Farms (몰 안)에서 상하지 않는 콘도 아침거리 장보기</strong> (우유·과일은 저녁에 콘도 근처 ABC 스토어에서) — 콘도에 커피·조미료·식용유·지퍼백 없음</div><div class="park">🅿 <strong>쇼핑객 무료</strong> — 몰 밖 용무로 세우면 견인</div></div></li><li><div class="t">13:15–13:45</div><div class="c"><div class="place">🚗 <strong>작은형 합류</strong> — 알라모아나로 데리러 와서 다이아몬드헤드로 (약 15분)</div></div></li><li><div class="t">14:00–16:00</div><div class="c"><div class="place">🥾 <strong>다이아몬드헤드</strong> (오후로 옮김) · 🔁 <strong>다시 예약: 14:00–16:00 주차 슬롯</strong></div><div class="what"><strong>14:30까지 주차장 도착</strong> (늦으면 환불 불가 · 입장은 16:00 시간대가 마지막) · 입장 후 바로 등산 · 왕복 2.6km · +170m · 마지막 계단 · <strong>오후 햇볕이 가장 강한 시간 → 물 1인 1L·모자·선크림 필수</strong> · <strong>15:35~15:40 차량 복귀 목표</strong> — 늦으면 정상보다 시간 우선</div><div class="park">🅿 <strong>예약 주차 2시간 → 16:00까지 출차</strong></div><figure class="routemap"><img src="maps/hike-diamondhead.webp?v=4c3b9f01a6" loading="lazy" width="1000" height="640" alt="하이킹: 다이아몬드헤드 지도"><figcaption><div class="rm-stops"><b>🥾 다이아몬드헤드 코스</b> · <b>①</b> 주차장·입구 → <b>②</b> 정상 전망대</div><div class="rm-meta">왕복 2.6km · +171m · 마지막 계단·터널 · 초록 선 = 걷는 길 (대략)</div><div class="rm-links">🧭 구글 지도 <a href="https://www.google.com/maps/search/?api=1&amp;query=21.26354,-157.80603" target="_blank" rel="noopener">📍 입구</a></div></figcaption></figure></div></li><li><div class="t">16:05–16:40</div><div class="c"><div class="place">🧳 <strong>숙소 이동</strong> — 메리어트 벨데스크에서 짐 찾기 → 렌트카에 싣고 비치타워로 → <strong>체크인</strong> (15시부터 가능)</div><div class="what">도착하면 <strong>관리자에게 전화</strong> → 만나서 체크인 또는 셀프 체크인 안내 (관리자 연락처는 11/4 자동 발송 · 전화는 한국 번호 로밍 또는 작은형 폰) · 휴식</div><div class="park">🅿 <strong>발렛 1대 무료</strong> (높이 6'2" = 188cm · 차량 사전 등록 필요 없음 · 머무는 동안만 — 호스트 확인 11/3) · 차는 칼라카우아 → <strong>릴리우오칼라니 애비뉴</strong> 좌회전, 왼쪽 건물</div></div></li><li><div class="t">16:45–17:25</div><div class="c"><div class="place">🛍 <strong>인터내셔널 마켓 플레이스 → 로열 하와이안 센터</strong> (토 10–21, 걸어서)</div><div class="what">콘도에서 칼라카우아 길을 따라 저녁 식당 가는 길 — 쇼핑 리뷰 순위 2·3위 (10,175 · 12,716) · 인터내셔널 마켓 플레이스 가운데 큰 반얀트리</div><div class="park">🅿 도보 (차는 콘도 발렛에 두기)</div></div></li><li><div class="t">17:30–17:55</div><div class="c"><div class="place">🌅 <strong>쿠히오 비치</strong> 일몰 (17:51)</div><div class="what">로열 하와이안 센터에서 해변 따라 걸어서 10분</div><div class="park">🅿 도보</div></div></li><li><div class="t">18:00–19:00</div><div class="c"><div class="place">🌺 <strong>쿠히오 비치 무료 훌라 쇼</strong> (화·목·토 · 11~1월 18:00)</div><div class="what">듀크 동상 옆 훌라 마운드 · 무료, 예약 없음 · 앉을 수건 있으면 좋아요 · 열리는지 현장 확인 (☎ 808-843-8002)</div><div class="park">🅿 도보</div></div></li><li><div class="t">19:15–20:45</div><div class="c"><div class="place">🍺 <strong>Maui Brewing Co. 와이키키</strong> (아웃리거 비치콤버, 2300 Kalakaua · 11:00–23:00)</div><div class="what">저녁 — 직접 만든 하와이 맥주 · 라이브 음악 · 🍴 <strong>주문: 피자·피시 타코</strong> (버거는 피하기) · <strong>OpenTable 예약</strong> · 대안: House Without a Key (할레쿨라니, 매일 밤 훌라)</div><div class="park">🅿 훌라 쇼 장소에서 걸어서 5분 · 콘도까지 걸어서 7분</div></div></li></ol>
 
 
 <ul>
 <li>☕ 커피: KCC 마켓 커피 부스</li>
+<li>🚕 <strong>오전은 작은형 없이 이동 (11/3 변경)</strong> — 5명이면 <strong>우버 XL</strong> 한 대 (일반 차량은 4명까지) · 메리어트 → KCC 약 10분 · KCC → 알라모아나 약 15분 · 다이아몬드헤드는 작은형 합류 뒤 오후에</li>
 <li>저녁 대안: <strong>Duke's Waikiki</strong> (해변 앞, 16시부터 라이브) — Outrigger 주차 인증 4시간 $6</li>
 </ul>
 </div></article><article class="day c4" data-date="11/8"><div class="day-head"><div class="date-badge"><b>11/8</b><span>일요일</span></div><div class="day-title"><h3 id="118-일-노스쇼어-종일">노스쇼어 종일</h3></div></div><div class="day-body">
@@ -846,7 +847,7 @@ footer { max-width: 1100px; margin: 0 auto; padding: 0 16px 48px; color: var(--m
 <li><strong>와이키키 불꽃놀이 (Hilton Hawaiian Village Friday fireworks)</strong> · 와이키키 · 27,376 · ★4.2</li>
 <li><strong>폴리네시안 문화센터 (Polynesian Cultural Center)</strong> · 노스쇼어·라이에 · 24,590 · ★4.7 — ✅ 11/10 오후·저녁 📖</li>
 <li><strong>쿠알로아 랜치 (Kualoa Ranch)</strong> · 동부 해안·카일루아 · 22,287 · ★4.7 —  📖</li>
-<li><strong>다이아몬드헤드 (Diamond Head State Monument)</strong> · 다이아몬드헤드·카파훌루·카이무키 · 17,392 · ★4.7 — 11/7 예약 취소 (정하는 중) 📖</li>
+<li><strong>다이아몬드헤드 (Diamond Head State Monument)</strong> · 다이아몬드헤드·카파훌루·카이무키 · 17,392 · ★4.7 — ✅ 11/7 오후 하이킹 (다시 예약) 📖</li>
 <li><strong>미주리 전함 (Battleship Missouri Memorial)</strong> · 진주만 · 14,694 · ★4.8 — ↪ 11/5 선택 대안</li>
 <li><strong>카일루아 비치 파크 (Kailua Beach Park)</strong> · 동부 해안·카일루아 · 13,497 · ★4.8 — ✅ 11/6 오후 📖</li>
 <li><strong>호놀룰루 동물원 (Honolulu Zoo)</strong> · 다이아몬드헤드·카파훌루·카이무키 · 10,470 · ★4.2 —  📖</li>
@@ -2111,12 +2112,12 @@ footer { max-width: 1100px; margin: 0 auto; padding: 0 16px 48px; color: var(--m
 · 🍫 마노아 초콜릿 · 🛍 Whole Foods (카일루아)
 · 🍽 Buzz's 스테이크 (예약)
 
-11/7(토) ⛰ KCC·다이아몬드헤드 + 숙소 이동
-· 08:00 조식 → 🧳 체크아웃 (짐은 메리어트에 15시까지 맡기기) → 09:00 출발
-· 🥭 KCC 파머스마켓 → (다이아몬드헤드 예약 취소 · 정하는 중)
-· 🛍 알라모아나 (🍱 릴리하 베이커리)
-· 🧳 14:30 메리어트에서 짐 찾아 렌트카로 콘도 이동 → 15시 체크인
-· 🛍 16:30 걸어서 인터내셔널 마켓 플레이스 → 로열 하와이안 센터
+11/7(토) 🛍 KCC·알라모아나 → ⛰ 다이아몬드헤드 + 숙소 이동
+· 08:00 조식 → 🧳 체크아웃 (짐은 메리어트에 맡기기) → 09:00 택시로 출발 (작은형은 오전 개인 일정)
+· 🥭 KCC 파머스마켓 → 🛍 알라모아나 (🍱 릴리하 베이커리)
+· 🚗 13:15 작은형 합류 → 🥾 14:00 다이아몬드헤드
+· 🧳 16:05 메리어트에서 짐 찾아 콘도 이동 → 체크인
+· 🛍 16:45 걸어서 인터내셔널 마켓 플레이스 → 로열 하와이안 센터
 · 🌺 쿠히오 비치 무료 훌라 쇼 (18시) → 🍺 Maui Brewing
 
 11/8(일) 🐢 노스쇼어
@@ -2154,7 +2155,7 @@ footer { max-width: 1100px; margin: 0 auto; padding: 0 16px 48px; color: var(--m
 <div class="kakao"><div class="kakao-bar"><span>💬 카톡에 그대로 붙여넣기</span><button class="copy-btn" type="button">📋 복사</button></div><pre class="kakao-text">[하와이 출발 전 체크리스트 (11/4 출발)]
 
 ■ 지금 예약·확인 (D-1)
-☐ 다이아몬드헤드 — ❌ 11/7 (토) 10:00 예약 취소 (11/3 · 작은형 일정) · 다시 갈지 정하는 중 · 다시 잡으면 $35 · gostateparks.hawaii.gov/diamondhead
+☐ 다이아몬드헤드 다시 예약 — 11/7 (토) 14:00–16:00 주차 + 5명 입장 · $35 · gostateparks.hawaii.gov/diamondhead · 10:00 예약은 취소함 (11/3 · 작은형 오전 개인 일정) · 14:30까지 주차장 도착 · 입장 QR 내려받아 폰에 저장
 ☐ 저녁 예약 — DECK. 11/4 17:30 ✅ 예약 완료 (OpenTable · 서쪽 자리 요청) · Buzz's 11/6 (☎ 808-261-4661) · 🍺 Maui Brewing 와이키키 11/7 19:15 (OpenTable) · 11/5 Yard House·11/9 Waikiki Brewing은 예약 없이
 ☐ 아침 예약 — Duke's 조식 뷔페 11/8 08:00 (OpenTable) · Heavenly 11/10 07:15 (5인 예약 되는지 전화 확인 ☎ 808-923-1100)
 ☐ PCC 패키지 — 11/10 (화) · 밤 운전 부담되면 왕복 버스 $28/인
@@ -2197,7 +2198,7 @@ footer { max-width: 1100px; margin: 0 auto; padding: 0 16px 48px; color: var(--m
 ☐ 위탁 수하물 23kg 초과 주의 — 귀국 때 아울렛 쇼핑 짐도
 ☐ 액체류 100ml 이하·투명 지퍼백 (총 1L) · 보조배터리는 기내 가방에</pre></div></section>
 </main>
-<footer>업데이트 2026-11-04 00:49 KST · 영업시간·주차는 2026-11-02 웹 조사 + Codex 검수 기준입니다. (미확인) 항목은 방문 전날 구글맵·전화로 다시 확인하세요. 체크 표시는 이 기기에만 저장됩니다. 사진: Wikimedia Commons 자유 이용 사진 — 사진을 누르면 저작자·라이선스 원문으로 이동합니다.</footer>
+<footer>업데이트 2026-11-04 00:52 KST · 영업시간·주차는 2026-11-02 웹 조사 + Codex 검수 기준입니다. (미확인) 항목은 방문 전날 구글맵·전화로 다시 확인하세요. 체크 표시는 이 기기에만 저장됩니다. 사진: Wikimedia Commons 자유 이용 사진 — 사진을 누르면 저작자·라이선스 원문으로 이동합니다.</footer>
 <button class="top-btn" id="topBtn" aria-label="맨 위로">↑</button>
 <script>
 (function () {
